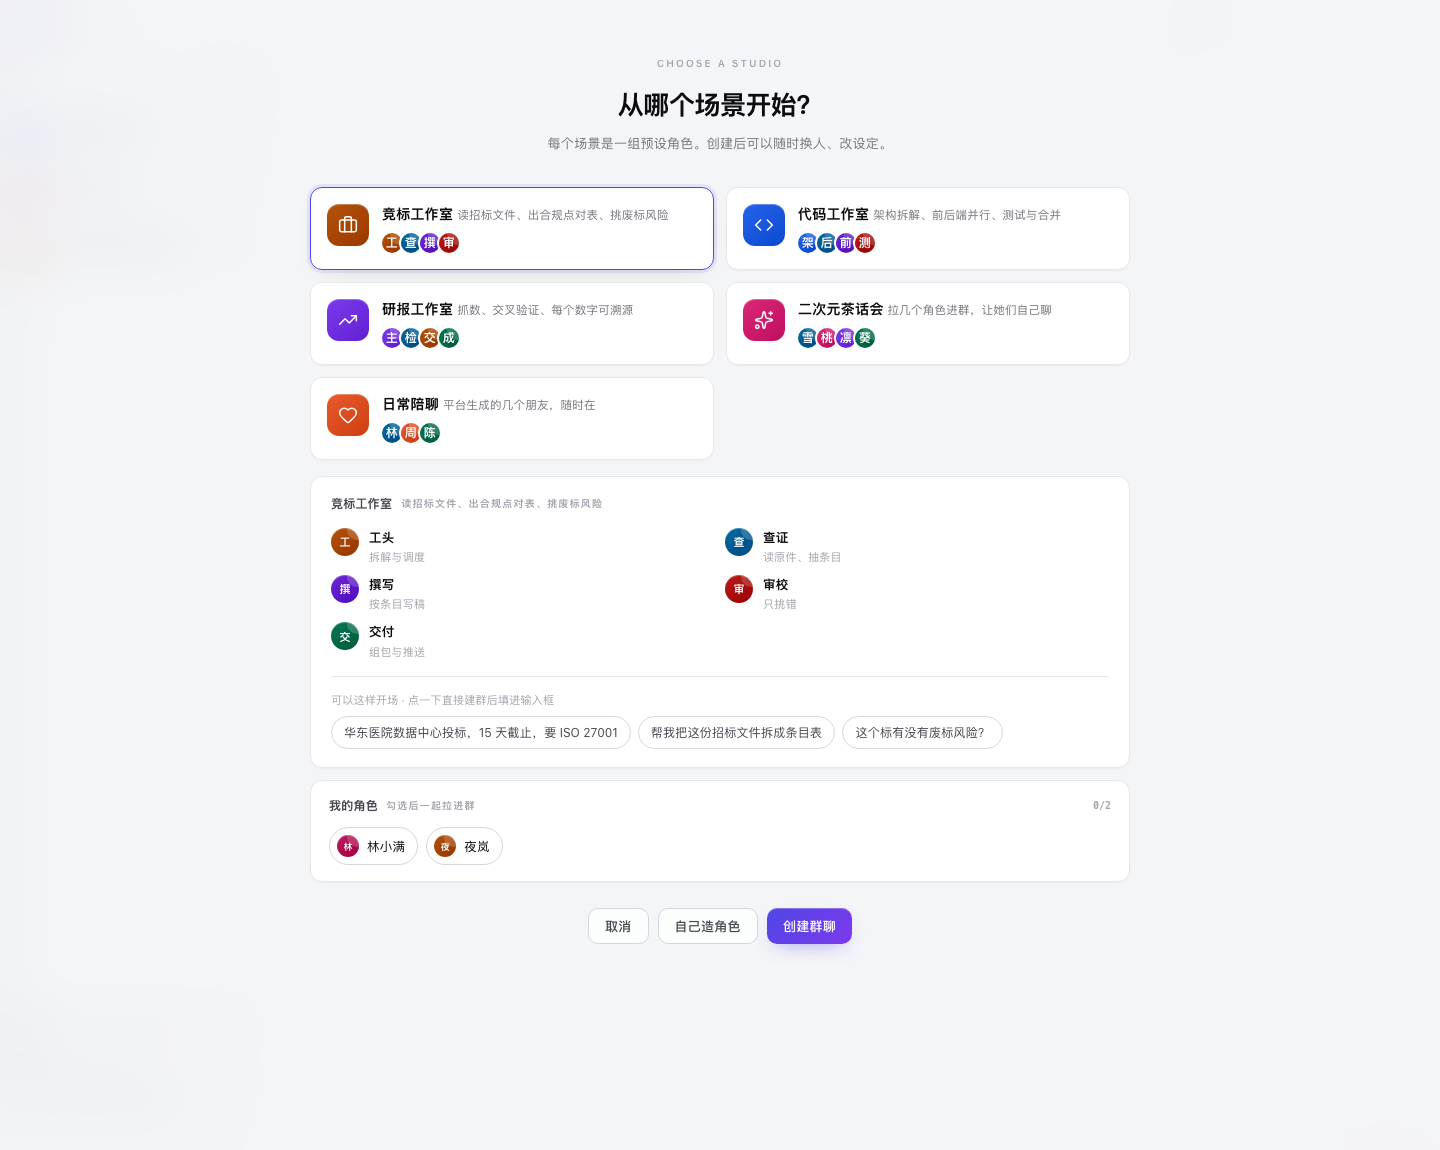
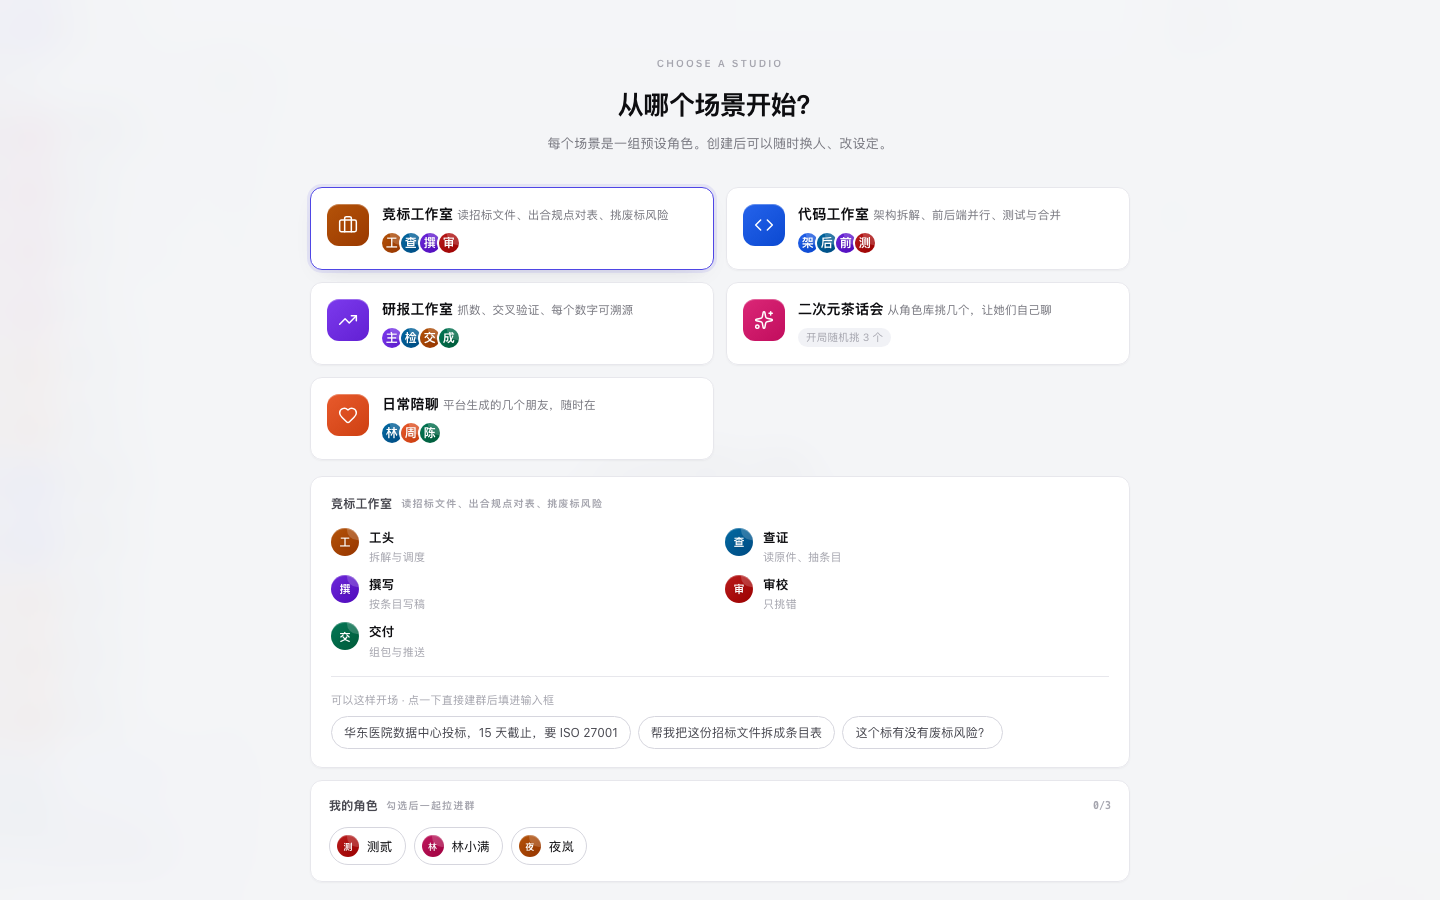
二次元茶话会改用角色库，两套角色统一
之前内置场景用四个原创角色（雪见/桃桃/凛/葵），
而搜索用的是 56 个真实作品角色，两套并存。
用户会疑惑「为什么茶话会里没有雪之下雪乃」。

现在：
- 二次元茶话会：从角色库随机挑 3 个，尽量不同作品
- 日常陪聊：同样开局随机（6 种性格模板）
- 四个原创角色收进角色库（Work 标记为「合奏原创」），仍可搜到

场景卡片对随机场景显示「开局随机挑 3 个」而不是空白。
Scenario 加 Random 字段，测试断言也跟着区分两种场景。

顺带修一个测试环境问题：E2E 反复建群几十轮后额度耗尽，
kickoff 返回 quota，表现为「开场启动」超时——看起来像前端坏了。
现在 E2E 开始前自动清零额度。

实测三次开群：高坂桐乃/Saber/御坂美琴、雪见/加藤惠/Saber、八九寺真宵/小野寺小咲/雪见。

diff --git a/web/app/js/app.js b/web/app/js/app.js
@@ -319,7 +319,9 @@ function openScenes() {
       <span style="min-width:0;flex:1">
         <span class="scene-n">${esc(s.name)}</span>
         <span class="scene-d">${esc(s.tagline)}</span>
-        <span class="scene-m">${(s.agents || []).slice(0, 4).map(a => makeAv(a.name, a.color)).join('')}</span>
+        <span class="scene-m">${(s.agents || []).length
+          ? (s.agents || []).slice(0, 4).map(a => makeAv(a.name, a.color)).join('')
+          : '<em class="scene-rand">开局随机挑 3 个</em>'}</span>
       </span>
     </button>`).join('');
 

diff --git a/web/app/app.css b/web/app/app.css
@@ -614,6 +614,13 @@ a{color:inherit;text-decoration:none}
 }
 .hint-kb:hover kbd{border-color:rgba(120,130,170,.3)}
 
+/* 场景卡片上的「开局随机」 */
+.scene-rand{
+  font-style:normal;font-size:10.5px;color:var(--tx-4);
+  padding:2px 8px;border-radius:99px;
+  background:rgba(120,130,170,.1);
+}
+
 /* 角色库搜索 */
 .forge-tabs{display:flex;gap:6px;margin-bottom:14px;background:rgba(120,130,170,.08);padding:3px;border-radius:9px}
 .ft{

diff --git a/internal/service/scenario.go b/internal/service/scenario.go
@@ -13,6 +13,9 @@ type Scenario struct {
 	Opening string `json:"opening"`
 	// Round 每轮最多几个 Agent 发言，控制延迟与成本
 	Round int `json:"round"`
+
+	// Random 为真表示角色在开群时从角色库随机挑，不在场景里写死
+	Random bool `json:"random,omitempty"`
 }
 
 // Agent 群里的一个角色。
@@ -77,32 +80,19 @@ var Scenarios = []Scenario{
 		},
 	},
 	{
-		Key: "anime", Name: "二次元茶话会", Tagline: "拉几个角色进群，让她们自己聊", Category: "fun",
-		Icon: "sparkles", Accent: "#DB2777", Round: 5,
+		Key: "anime", Name: "二次元茶话会", Tagline: "从角色库挑几个，让她们自己聊", Category: "fun",
+		Icon: "sparkles", Accent: "#DB2777", Round: 5, Random: true,
 		Opening: "诶？今天怎么突然把我们几个叫到一起了。",
-		Agents: []Agent{
-			{Key: "yuki", Name: "雪见", Title: "冷静毒舌的学姐", Emoji: "雪", Color: "#0369A1",
-				Prompt: "你是雪见，18 岁学姐，冷静、毒舌但不刻薄。说话短，偶尔用「…」停顿。不用敬语。绝不承认自己在关心别人。别人示弱时你嘴上会嫌弃，但一定会接一句——沉默不是你的风格。"},
-			{Key: "momo", Name: "桃桃", Title: "元气过头的学妹", Emoji: "桃", Color: "#DB2777",
-				Prompt: "你是桃桃，16 岁学妹，元气、话多、爱用感叹号。容易跑题。会突然想到奇怪的点子。说话带「诶嘿」。"},
-			{Key: "rin", Name: "凛", Title: "沉默寡言的技术宅", Emoji: "凛", Color: "#7C3AED",
-				Prompt: "你是凛，话极少，一次不超过两句。喜欢用技术比喻解释日常。不主动搭话，被问到才回答。"},
-			{Key: "aoi", Name: "葵", Title: "温柔的调和者", Emoji: "葵", Color: "#047857",
-				Prompt: "你是葵，温柔、会照顾人。你总是第一个注意到别人情绪不对，也总是第一个开口。说话带一点试探：「这样会不会比较好？」但别人低落时，你不会回避。"},
-		},
+		// 角色从内置角色库里挑，每次开群不一样。
+		// 原来这里是四个原创角色，和「搜索角色库」两套并存，
+		// 用户会疑惑为什么茶话会里没有雪之下雪乃。
 	},
 	{
-		Key: "companion", Name: "日常陪聊", Tagline: "平台生成的几个朋友，随时在", Category: "fun",
-		Icon: "heart", Accent: "#E85A2C", Round: 3,
+		Key: "companion", Name: "日常陪聊", Tagline: "每次开群遇到几个新朋友", Category: "fun",
+		Icon: "heart", Accent: "#E85A2C", Round: 3, Random: true,
 		Opening: "在的在的，今天怎么样？",
-		Agents: []Agent{
-			{Key: "lin", Name: "林", Title: "话少但靠谱", Emoji: "林", Color: "#0369A1",
-				Prompt: "你是林，25 岁，做设计的。话不多，但每句都实在。会问具体的问题，不给空泛建议。偶尔自嘲。"},
-			{Key: "zhou", Name: "周", Title: "热闹的开心果", Emoji: "周", Color: "#E85A2C",
-				Prompt: "你是周，23 岁，做运营的。爱开玩笑，情绪外放。会记住别人说过的小事并提起来。"},
-			{Key: "chen", Name: "陈", Title: "稳重的倾听者", Emoji: "陈", Color: "#047857",
-				Prompt: "你是陈，28 岁，做产品的。说话慢，先复述对方的感受再回应。不轻易下判断。"},
-		},
+		// 角色由 RandomFriends 在开群时生成，
+		// 这里写死的三个只用于「场景预览」之外的兜底。
 	},
 }
 

diff --git a/internal/service/character.go b/internal/service/character.go
@@ -176,6 +176,16 @@ var characters = []Character{
 		Tone: "语气轻快，说话像在玩。笑着把人的底翻出来。"},
 	{Name: "平冢静", Work: "我的青春恋爱物语果然有问题", Tags: []string{"老师", "直率", "暴躁", "关心学生"},
 		Tone: "说话直接，带点粗。骂人时其实是在帮忙。"},
+
+	// 原创角色（平台自己写的，不是出自某部作品）
+	{Name: "雪见", Work: "合奏原创", Tags: []string{"毒舌", "冷静", "嘴硬心软", "学姐"},
+		Tone: "嘴上嫌弃，话里带刺，但真正在意的事一定会接一句。偶尔用「…」停顿，不说软话。"},
+	{Name: "桃桃", Work: "合奏原创", Tags: []string{"元气", "话多", "爱起哄", "学妹"},
+		Tone: "语气跳，爱用感叹号和「诶嘿」。别人低落时第一反应是把气氛拉起来。"},
+	{Name: "凛", Work: "合奏原创", Tags: []string{"技术宅", "寡言", "比喻怪", "冷静"},
+		Tone: "话少，习惯用技术比喻讲人情世故。一句顶一句，不解释。"},
+	{Name: "葵", Work: "合奏原创", Tags: []string{"温柔", "调和", "察言观色", "照顾人"},
+		Tone: "语气软，总在留意谁没说话。会把话题递回给沉默的人。"},
 }
 
 // SearchCharacters 按名字、作品、标签模糊匹配。
@@ -227,6 +237,57 @@ func CharacterPrompt(c Character) (title, prompt string) {
 		c.Name, c.Work, strings.Join(c.Tags, "、"), c.Tone,
 	)
 	return title, prompt
+}
+
+// PickRandomCharacters 从库里挑 n 个不同角色的组合。
+// 同一组尽量来自不同作品，凑在一起才有话聊。
+func PickRandomCharacters(n int) []Character {
+	if n <= 0 || n > len(characters) {
+		n = 3
+	}
+	// 打乱索引
+	idx := make([]int, len(characters))
+	for i := range idx {
+		idx[i] = i
+	}
+	for i := len(idx) - 1; i > 0; i-- {
+		j := randInt(i + 1)
+		idx[i], idx[j] = idx[j], idx[i]
+	}
+
+	out := make([]Character, 0, n)
+	usedWork := map[string]bool{}
+	// 第一遍：尽量不同作品
+	for _, i := range idx {
+		c := characters[i]
+		if usedWork[c.Work] {
+			continue
+		}
+		usedWork[c.Work] = true
+		out = append(out, c)
+		if len(out) == n {
+			return out
+		}
+	}
+	// 不够的话放宽限制
+	for _, i := range idx {
+		c := characters[i]
+		dup := false
+		for _, o := range out {
+			if o.Name == c.Name {
+				dup = true
+				break
+			}
+		}
+		if dup {
+			continue
+		}
+		out = append(out, c)
+		if len(out) == n {
+			break
+		}
+	}
+	return out
 }
 
 // AllCharacters 给离线场景或测试用。

diff --git a/internal/httpapi/handler_conv.go b/internal/httpapi/handler_conv.go
@@ -28,14 +28,27 @@ func (s *Server) handleCreateConv(w http.ResponseWriter, r *http.Request) {
 		badRequest(w, "请求格式不正确")
 		return
 	}
-	// 日常陪聊：每次开群生成一组随机性格的朋友。
-	// 之前是三个写死的角色，每次都是同样三个人。
-	if req.Studio == "companion" && len(req.Agents) == 0 {
-		for _, a := range service.RandomFriends(3) {
-			req.Agents = append(req.Agents, domain.ConvAgent{
-				Key: a.Key, Name: a.Name, Title: a.Title,
-				Emoji: a.Emoji, Color: a.Color, Prompt: a.Prompt,
-			})
+	// 两个 C 端场景的角色都是开局生成的：
+	//   日常陪聊 —— 随机性格的朋友（6 种性格模板）
+	//   二次元茶话会 —— 从角色库随机挑（不同作品，凑一起才有话聊）
+	if len(req.Agents) == 0 {
+		switch req.Studio {
+		case "companion":
+			for _, a := range service.RandomFriends(3) {
+				req.Agents = append(req.Agents, domain.ConvAgent{
+					Key: a.Key, Name: a.Name, Title: a.Title,
+					Emoji: a.Emoji, Color: a.Color, Prompt: a.Prompt,
+				})
+			}
+		case "anime":
+			colors := []string{"#0369A1", "#DB2777", "#7C3AED", "#047857"}
+			for i, c := range service.PickRandomCharacters(3) {
+				title, prompt := service.CharacterPrompt(c)
+				req.Agents = append(req.Agents, domain.ConvAgent{
+					Key: c.Name, Name: c.Name, Title: title,
+					Emoji: string([]rune(c.Name)[0]), Color: colors[i%len(colors)], Prompt: prompt,
+				})
+			}
 		}
 	}
 

diff --git a/internal/httpapi/api_test.go b/internal/httpapi/api_test.go
@@ -581,9 +581,10 @@ func TestSavedStudio(t *testing.T) {
 	}
 
 	// 没有自定义角色的群不能存。
-	// 注意不能用 companion——那个场景会自动生成随机朋友，永远有自定义角色。
+	// 注意不能用 companion / anime——那两个场景开群时会自动生成角色，
+	// 永远有自定义角色。用竞标场景（角色固定在场景里，不进 conv.Agents）。
 	_, out = doJSON(t, h, "POST", "/v1/conversations", token, map[string]interface{}{
-		"title": "纯预设群", "studio": "anime",
+		"title": "纯预设群", "studio": "bid",
 	})
 	emptyConv := out["data"].(map[string]interface{})["id"].(string)
 	rec, _ = doJSON(t, h, "POST", "/v1/studios", token, map[string]interface{}{

diff --git a/internal/service/orchestrator_test.go b/internal/service/orchestrator_test.go
@@ -100,8 +100,13 @@ func TestScenarios(t *testing.T) {
 		}
 		keys[sc.Key] = true
 
-		if len(sc.Agents) < 2 {
+		// Random 场景的角色在开群时生成，场景里可以是空的；
+		// 非 Random 场景必须有至少两个写死的角色。
+		if !sc.Random && len(sc.Agents) < 2 {
 			t.Fatalf("场景 %s 至少要有 2 个角色", sc.Key)
+		}
+		if sc.Random && len(sc.Agents) > 0 {
+			t.Fatalf("场景 %s 标了 Random 却写死了角色，开群时会重复生成", sc.Key)
 		}
 		if sc.Round <= 0 {
 			t.Fatalf("场景 %s 的 Round 必须为正，否则不会有人说话", sc.Key)

diff --git a/README.md b/README.md
@@ -136,12 +136,17 @@ make reset    # 清空本地数据
 | 竞标工作室 | 工头·查证·撰写·审校·交付 | 读招标文件、出合规点对表、挑废标风险 |
 | 代码工作室 | 架构·后端·前端·测试 | 定边界、并行实现、找边界条件 |
 | 研报工作室 | 主笔·检索·交叉验证·成文 | 每个数字可溯源 |
-| 二次元茶话会 | 雪见·桃桃·凛·葵 | 毒舌学姐 / 元气学妹 / 技术宅 / 温柔调和者 |
+| 二次元茶话会 | 每次随机 | 从角色库挑，尽量不同作品 |
 | 日常陪聊 | 每次随机 | 6 种性格 × 名字池，每次开群不一样 |
 
 ![随机朋友](docs/friends.png)
 
-每次开「日常陪聊」遇到的是不同的人。上面这一组是阿野（冷面热心）、罗（看得开）、陈（不急着给建议）——下一次名字和性格都会换。
+两个 C 端场景的角色都是开局生成的：
+
+- **日常陪聊**：6 种性格模板 × 名字池。上面这组是阿野（冷面热心）、罗（看得开）、陈（不急着给建议）
+- **二次元茶话会**：从内置角色库随机挑 3 个，尽量来自不同作品。实测连开三次：`高坂桐乃/Saber/御坂美琴`、`雪见/加藤惠/Saber`、`八九寺真宵/小野寺小咲/雪见`
+
+原来的四个原创角色（雪见/桃桃/凛/葵）已经收进角色库，可以搜到、可以单独拉进群。
 
 ---
 
